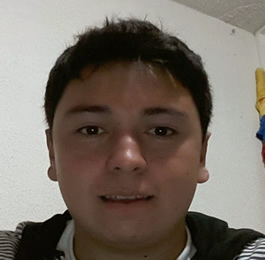
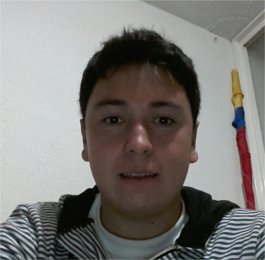
modificamos los link de lo sperfiles y foto de deiby

diff --git a/public/index.html b/public/index.html
@@ -303,7 +303,7 @@
 										<ul class="team-list">
 											<li class="col-md-3">
 												<div class="team-item thumbnail">
-													<a href="about-me.html" class="thumb-info team">
+													<a href="equipo/andres-herrera.html" class="thumb-info team">
 													<img alt="" height="270" src="img/team/team-1.jpg">
 													<span class="thumb-info-title">
 													<span class="thumb-info-inner">Andres Herrera</span>
@@ -321,7 +321,7 @@
 											</li>
 											<li class="col-md-3">
 												<div class="team-item thumbnail">
-													<a href="about-me.html" class="thumb-info team">
+													<a href="equipo/cristian-moreno.html" class="thumb-info team">
 													<img alt="" height="270" src="img/team/team-2.jpg">
 													<span class="thumb-info-title">
 													<span class="thumb-info-inner">Cristian Moreno</span>
@@ -339,7 +339,7 @@
 											</li>
 											<li class="col-md-3">
 												<div class="team-item thumbnail">
-													<a href="about-me.html" class="thumb-info team">
+													<a href="equipo/carlos-gil.html" class="thumb-info team">
 													<img alt="" height="270" src="img/team/team-3.jpg">
 													<span class="thumb-info-title">
 													<span class="thumb-info-inner">Carlos Gil</span>
@@ -357,7 +357,7 @@
 											</li>
 											<li class="col-md-3">
 												<div class="team-item thumbnail">
-													<a href="about-me.html" class="thumb-info team">
+													<a href="equipo/andrea-castaneda.html" class="thumb-info team">
 													<img alt="" height="270" src="img/team/team-4.jpg">
 													<span class="thumb-info-title">
 													<span class="thumb-info-inner">Andrea castañeda</span>
@@ -383,7 +383,7 @@
 										<ul class="team-list">
 											<li class="col-md-3">
 												<div class="team-item thumbnail">
-													<a href="about-me.html" class="thumb-info team">
+													<a href="equipo/julian-guevara.html" class="thumb-info team">
 													<img alt="" height="270" src="img/team/team-5.jpg">
 													<span class="thumb-info-title">
 													<span class="thumb-info-inner">Julian Guevara</span>
@@ -401,7 +401,7 @@
 											</li>
 											<li class="col-md-3">
 												<div class="team-item thumbnail">
-													<a href="about-me.html" class="thumb-info team">
+													<a href="equipo/guillermo-alvarado.html" class="thumb-info team">
 													<img alt="" height="270" src="img/team/team-6.jpg">
 													<span class="thumb-info-title">
 													<span class="thumb-info-inner">Guillermo Alvarado</span>
@@ -419,7 +419,7 @@
 											</li>
 											<li class="col-md-3">
 												<div class="team-item thumbnail">
-													<a href="about-me.html" class="thumb-info team">
+													<a href="equipo/jader-rojas.html" class="thumb-info team">
 													<img alt="" height="270" src="img/team/team-7.jpg">
 													<span class="thumb-info-title">
 													<span class="thumb-info-inner">Jader Rojas</span>
@@ -436,7 +436,7 @@
 											</li>
 											<li class="col-md-3">
 												<div class="team-item thumbnail">
-													<a href="about-me.html" class="thumb-info team">
+													<a href="equipo/deiby-ordonez.html" class="thumb-info team">
 													<img alt="" height="270" src="img/team/team-9.jpg">
 													<span class="thumb-info-title">
 													<span class="thumb-info-inner">Deiby Ordoñez</span>
@@ -462,7 +462,7 @@
 										<ul class="team-list">
 											<li class="col-md-3">
 												<div class="team-item thumbnail">
-													<a href="about-me.html" class="thumb-info team">
+													<a href="equipo/gregorio-hernandez.html" class="thumb-info team">
 													<img alt="" height="270" src="img/team/team-10.jpg">
 													<span class="thumb-info-title">
 													<span class="thumb-info-inner">Gregorio Hernandez</span>
@@ -480,7 +480,7 @@
 											</li>
 											<li class="col-md-3">
 												<div class="team-item thumbnail">
-													<a href="about-me.html" class="thumb-info team">
+													<a href="equipo/camilo-velasquez.html" class="thumb-info team">
 													<img alt="" height="270" src="img/team/team-8.jpg">
 													<span class="thumb-info-title">
 													<span class="thumb-info-inner">Camilo Velásquez</span>
@@ -498,7 +498,7 @@
 											</li>
 											<li class="col-md-3">
 												<div class="team-item thumbnail">
-													<a href="about-me.html" class="thumb-info team">
+													<a href="equipo/diana-calderon.html" class="thumb-info team">
 													<img alt="" height="270" src="img/team/team-11.jpg">
 													<span class="thumb-info-title">
 													<span class="thumb-info-inner">Diana Calderon</span>
